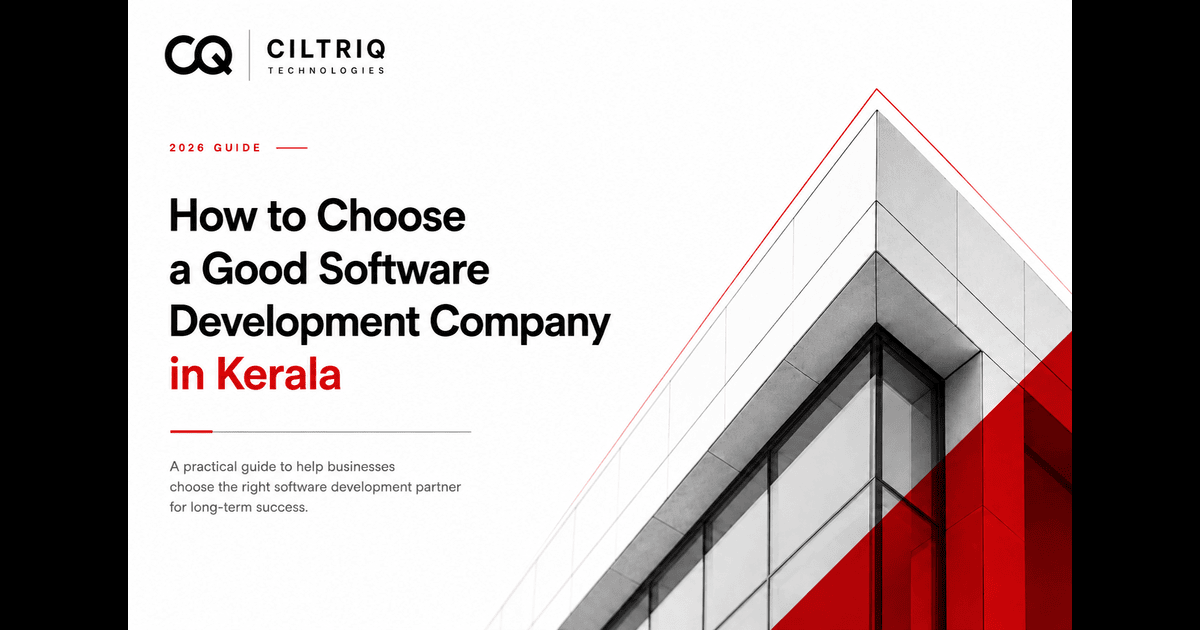
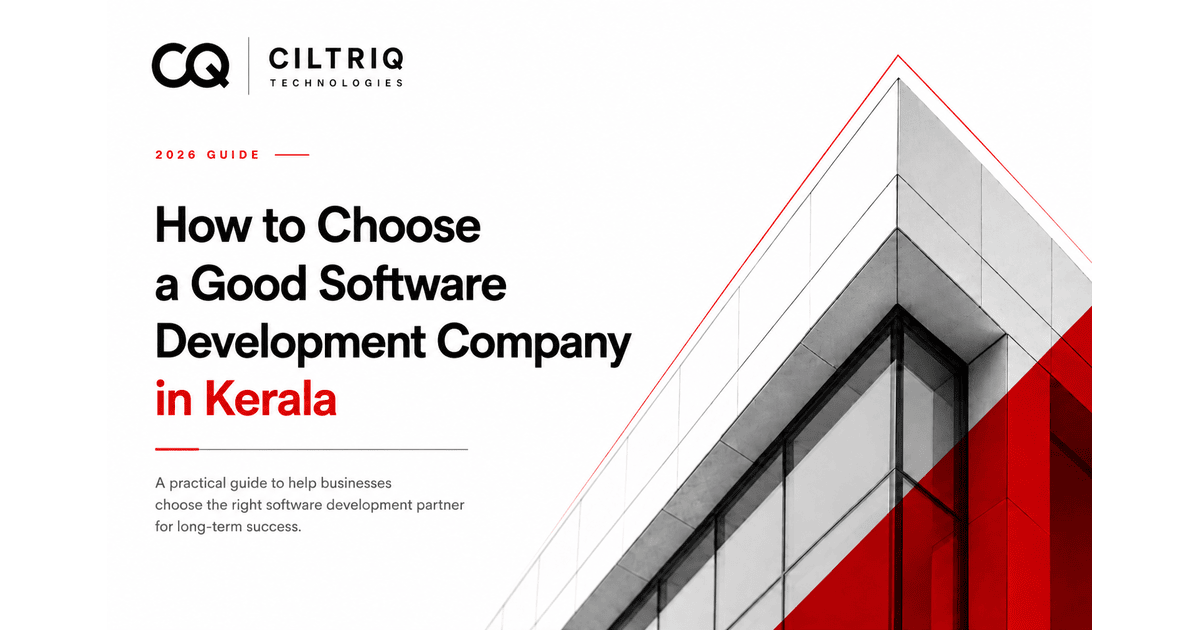
feat: og image changed

diff --git a/src/app/layout.tsx b/src/app/layout.tsx
@@ -5,6 +5,7 @@ import Footer from "@/components/Footer";
 import WhatsAppFab from "@/components/WhatsAppFab";
 import { ScrollProgress } from "@/components/ui/scroll-progress";
 import "./globals.css";
+import { Analytics } from "@vercel/analytics/next"
 
 export const metadata: Metadata = {
   metadataBase: new URL("https://ciltriq.com"),
@@ -108,6 +109,7 @@ export default function RootLayout({
       <body className="antialiased">
         <Providers>
           <Navbar />
+          <Analytics/>
           <ScrollProgress className="top-16 lg:top-20 z-50 opacity-60" />
           <main>{children}</main>
           <Footer />
